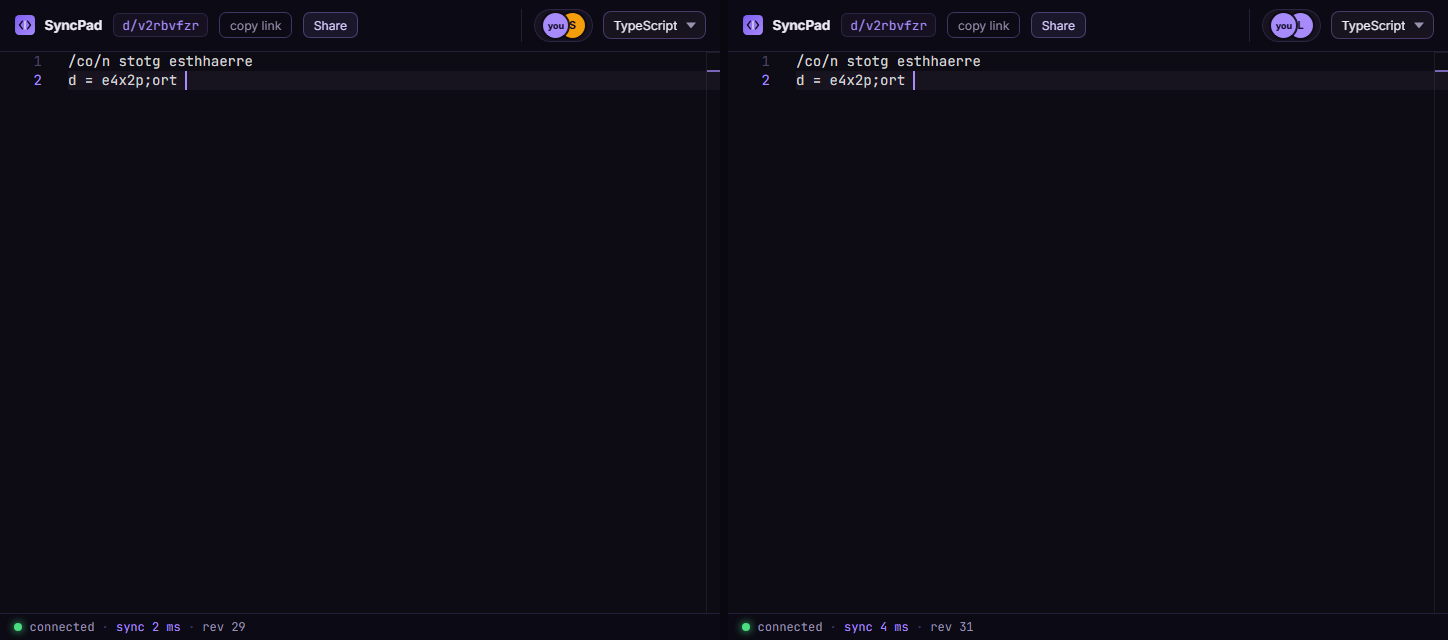
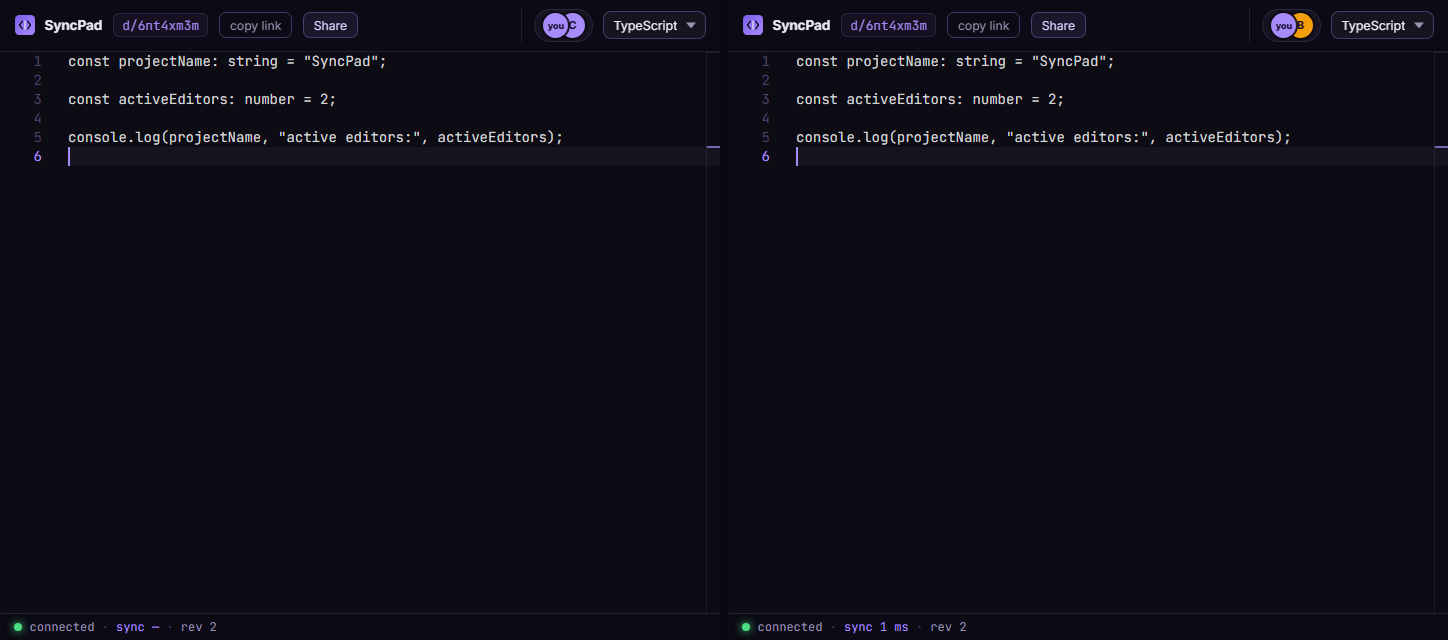
Fix web lockfile and refresh demo assets

diff --git a/web/e2e/docs-demo.spec.ts b/web/e2e/docs-demo.spec.ts
@@ -38,11 +38,16 @@ test("capture deterministic two-browser convergence demo", async ({ browser }) =
   }
 
   await capture();
-  await Promise.all([a.locator(".monaco-editor").click(), b.locator(".monaco-editor").click()]);
-  await Promise.all([a.keyboard.type("const shared = ", { delay: 35 }), b.keyboard.type("// together\n", { delay: 35 })]);
+  await a.locator(".monaco-editor").click();
+  await a.keyboard.insertText('const projectName: string = "SyncPad";\n\n');
+  await expect.poll(async () => content(b)).toBe(await content(a));
+  await Promise.all([a.keyboard.press("Escape"), b.keyboard.press("Escape")]);
   await capture();
-  await Promise.all([a.keyboard.type("42;", { delay: 45 }), b.keyboard.type("export ", { delay: 45 })]);
-  await expect.poll(async () => [await content(a), await content(b)]).toEqual([await content(a), await content(a)]);
+  await b.locator(".monaco-editor").click();
+  await b.keyboard.press("Control+End");
+  await b.keyboard.insertText('const activeEditors: number = 2;\n\nconsole.log(projectName, "active editors:", activeEditors);\n');
+  await expect.poll(async () => content(a)).toBe(await content(b));
+  await Promise.all([a.keyboard.press("Escape"), b.keyboard.press("Escape")]);
   await capture();
   await writeFile(resolve(output, "demo.png"), frames.at(-1)!);
 

diff --git a/README.md b/README.md
@@ -7,7 +7,7 @@ Real-time collaborative code editing with Rust, WebSockets, Monaco, and
 operational transforms. [Open the production demo](https://syncpad.sholaayeni.xyz),
 create a document, and share its link—no account required.
 
-![Two SyncPad editors converged after concurrent typing](docs/assets/demo.gif)
+![Two SyncPad editors converged on the same TypeScript example](docs/assets/demo.gif)
 
 ![SyncPad two-browser editor](docs/assets/demo.png)
 